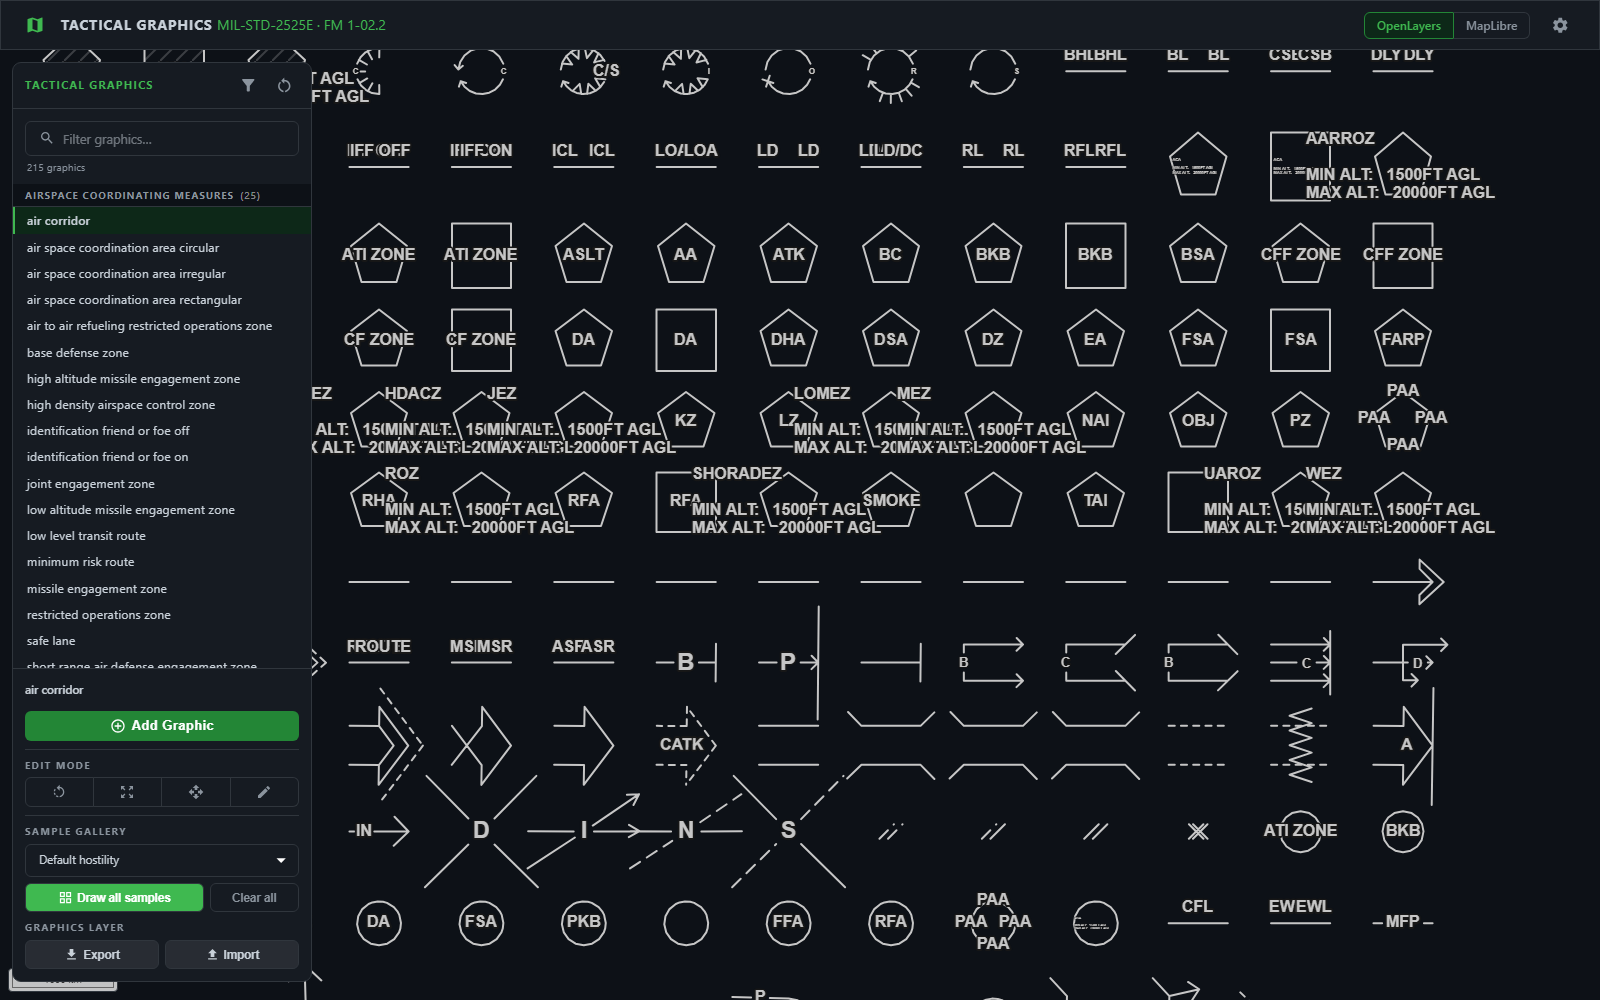
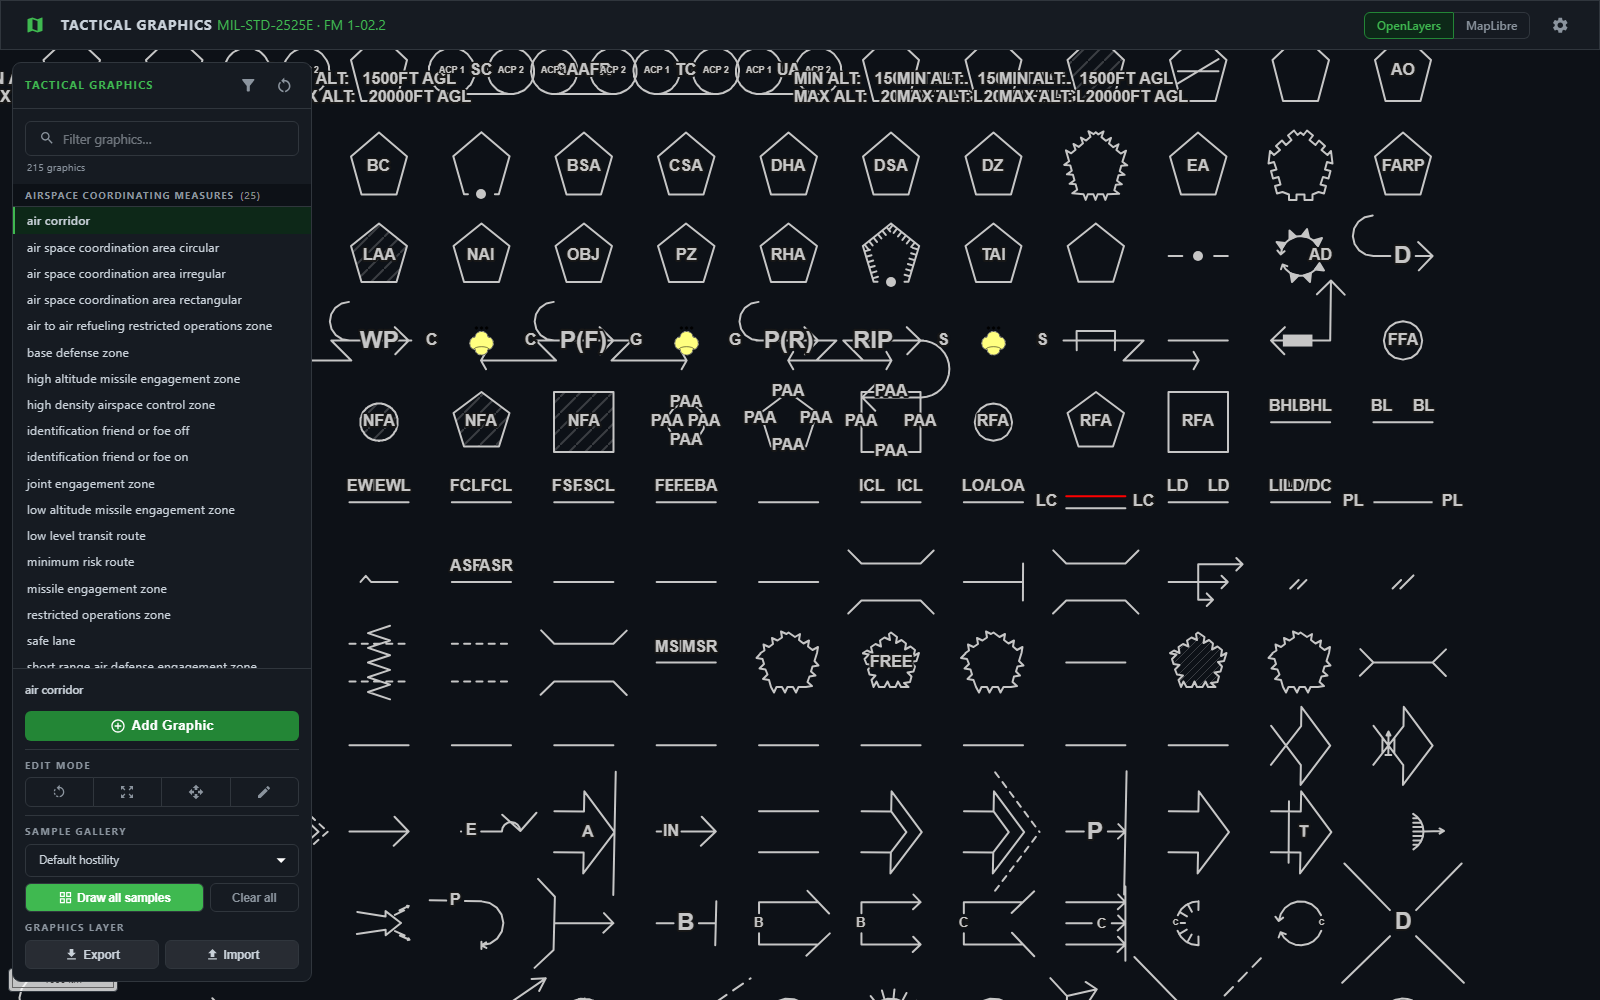
Show each range fan with one band and with three, and fit the labels
The two sweep builders were two orders. `buildSampleGraphics` sorted by
category, `sampleFeatureCollection` took registry order, so the circular fan
sat at [26,-47] in one engine and [-10,-54] in the other and every
side-by-side comparison was comparing two different pictures. A pixel diff
cannot report that — it sees two full, plausible catalogues. Both now come
out of one `sampleSpecs()` + `cellOrigin()`, and a test asserts they agree
graphic-for-graphic rather than leaving it to construction.

On top of the catalogue proper, each range fan gets a second cell with three
bands. One band draws a ring; three nest, and the labels have to share the
gaps between them — a catalogue showing only the first shows the shape and
hides the graphic. The sector's three carry their own bearings, which is the
thing a sector can do that a circle cannot.

Three bands were unreadable as they stood: each label is a three-line stack
anchored on its own ring, and the stack scales with the graphic while the
ring spacing does not, so at a working zoom they overprinted into
`MGATGMARTY` over `MIN RG...`. A band's label is now capped to 85% of the
distance to the next band's anchor. **A lone band takes no cap** — its
neighbour falls back to the fan's own centre, which is not something the
label can collide with, and capping against it shrank the one-band sample to
a speck.

1783 tests green; gallery re-shot.

diff --git a/src/components/maplibre/sampleGallery.ts b/src/components/maplibre/sampleGallery.ts
@@ -10,6 +10,7 @@ import {
     supportsHostility,
     AltitudeDatum,
     isRectangular,
+    type TacticalGraphicProperties,
 } from '@zaes/tactical-graphics';
 import {buildTacticalGraphic, type MapLibreTacticalGraphic} from './maplibreAdapter';
 
@@ -116,11 +117,11 @@ const SAMPLE_AMPLIFIERS = {
     maxAltitude: 20000,
     altitudeDatum: AltitudeDatum.aboveGroundLevel,
     rangeFan: {
-        // **One band, not three.** Each band draws a three-line stack — its name, its
-        // range, its altitude — anchored on its own ring, and in a cell this size three
-        // rings put those stacks within a few pixels of each other: rendered with
-        // 60/120/180 km the two fan samples were an unreadable pile. One ring shows the
-        // same three lines and stays legible, which is what a catalogue owes a reader.
+        // **One band**, and no bearings on it — the sector fan then falls back to its
+        // own span, which is the plain case worth showing first. The multi-band variants
+        // are separate samples rather than a replacement for this one, so the catalogue
+        // shows both what a fan looks like with a single ring and what stacking does to
+        // it. @see EXTRA_SAMPLES
         //
         // Kilometres, unlike every other distance here. @see RangeFanBand.range
         bands: [{range: 180, label: 'ARTY', altitude: 1500}],
@@ -175,6 +176,114 @@ function hostilityFor(
  * the right size on the first zoom, when `rebuildScreenSized` re-derived it from the
  * live map. @see securityOperationSize
  */
+/**
+ * One sample: which graphic, where in the grid, and the properties it is drawn with.
+ *
+ * **Both sweeps walk this same list**, which they did not used to. `buildSampleGraphics`
+ * sorted by category while `sampleFeatureCollection` took the registry's own order, so
+ * the engine that builds its own graphics and the engine that restores the collection
+ * laid the catalogue out differently — the same fan sat at [26, -47] in one and
+ * [-10, -54] in the other. Comparing the two by looking at them was comparing two
+ * different pictures.
+ */
+interface SampleSpec {
+    name: TacticalGraphicName;
+    index: number;
+    properties: Omit<TacticalGraphicProperties, 'name'>;
+}
+
+/**
+ * A second sample for the graphics whose interesting variation is in their *properties*
+ * rather than their shape.
+ *
+ * The range fans carry a list of bands, and one band draws nothing like four — the rings
+ * nest, the labels stack, and the sector's bearings spread across the arc. A catalogue
+ * showing only the single-band case shows the shape and hides the graphic.
+ */
+const EXTRA_SAMPLES: {name: TacticalGraphicName; properties: Omit<TacticalGraphicProperties, 'name'>}[] = [
+    {
+        name: TacticalGraphicName.WeaponSensorRangeFanCircular,
+        properties: {
+            rangeFan: {
+                bands: [
+                    {range: 60, label: 'MG'},
+                    {range: 120, label: 'ATGM'},
+                    {range: 180, label: 'ARTY'},
+                ],
+            },
+        },
+    },
+    {
+        name: TacticalGraphicName.WeaponSensorRangeFanSector,
+        properties: {
+            // Three, for the same reason — and each with its own pair of bearings, which
+            // is the thing a sector fan can do that a circular one cannot.
+            rangeFan: {
+                bands: [
+                    {range: 60, label: 'MG', leftAzimuthDeg: 20, rightAzimuthDeg: 70},
+                    {range: 120, label: 'ATGM', leftAzimuthDeg: 35, rightAzimuthDeg: 85},
+                    {range: 180, label: 'ARTY', leftAzimuthDeg: 45, rightAzimuthDeg: 100},
+                ],
+            },
+        },
+    },
+];
+
+/**
+ * Every sample, in one order, ready for either engine to realise.
+ *
+ * Sorted by category so related symbols sit together, which is what makes the sweep
+ * readable as a catalogue rather than a heap.
+ */
+function sampleSpecs(hostility?: TacticalGraphicHostility): SampleSpec[] {
+    const byCategory = [...PAINTABLE_GRAPHICS].sort((a, b) => {
+        const ca = GRAPHIC_CATEGORIES[a] ?? TacticalGraphicCategory.Areas;
+        const cb = GRAPHIC_CATEGORIES[b] ?? TacticalGraphicCategory.Areas;
+        return ca === cb ? getDisplayName(a).localeCompare(getDisplayName(b)) : String(ca).localeCompare(String(cb));
+    });
+
+    const specs: SampleSpec[] = byCategory.map((name, index) => ({
+        name,
+        index,
+        properties: {
+            ...SAMPLE_AMPLIFIERS,
+            radius: SAMPLE_RADIUS_M,
+            // **`rotation` is not optional in practice.** The point-anchored generators
+            // feed it straight into `Math.cos`/`Math.sin`, so leaving it undefined
+            // produces NaN coordinates and turf then refuses the feature — which surfaces
+            // as the graphic simply not drawing. All nine arc and circular-area samples
+            // were missing until this was passed.
+            rotation: 0,
+            ...hostilityFor(name, hostility),
+        },
+    }));
+
+    // Appended, so they take the cells after the catalogue proper and nothing shifts.
+    EXTRA_SAMPLES.forEach((extra, offset) => {
+        specs.push({
+            name: extra.name,
+            index: byCategory.length + offset,
+            properties: {
+                ...SAMPLE_AMPLIFIERS,
+                radius: SAMPLE_RADIUS_M,
+                rotation: 0,
+                ...hostilityFor(extra.name, hostility),
+                ...extra.properties,
+            },
+        });
+    });
+
+    return specs;
+}
+
+/** Where a sample's cell sits, from its place in the list. */
+function cellOrigin(index: number): {lon: number; lat: number} {
+    return {
+        lon: ORIGIN[0] + (index % COLUMNS) * COLUMN_STEP,
+        lat: ORIGIN[1] - Math.floor(index / COLUMNS) * ROW_STEP,
+    };
+}
+
 export function buildSampleGraphics(
     hostility?: TacticalGraphicHostility,
     drawingResolution?: number,
@@ -182,31 +291,13 @@ export function buildSampleGraphics(
     graphics: MapLibreTacticalGraphic[];
     report: MapLibreSampleReport;
 } {
-    const byCategory = [...PAINTABLE_GRAPHICS].sort((a, b) => {
-        const ca = GRAPHIC_CATEGORIES[a] ?? TacticalGraphicCategory.Areas;
-        const cb = GRAPHIC_CATEGORIES[b] ?? TacticalGraphicCategory.Areas;
-        return ca === cb ? getDisplayName(a).localeCompare(getDisplayName(b)) : String(ca).localeCompare(String(cb));
-    });
-
     const graphics: MapLibreTacticalGraphic[] = [];
     const failed: string[] = [];
 
-    byCategory.forEach((name, i) => {
-        const lon = ORIGIN[0] + (i % COLUMNS) * COLUMN_STEP;
-        const lat = ORIGIN[1] - Math.floor(i / COLUMNS) * ROW_STEP;
-
+    sampleSpecs(hostility).forEach(({name, index, properties}) => {
+        const {lon, lat} = cellOrigin(index);
         const built = candidateGeometries(name, lon, lat)
-            .map(geometry => buildTacticalGraphic(name, geometry, {
-                ...SAMPLE_AMPLIFIERS,
-                radius: SAMPLE_RADIUS_M,
-                // **`rotation` is not optional in practice.** The point-anchored
-                // generators feed it straight into `Math.cos`/`Math.sin`, so leaving it
-                // undefined produces NaN coordinates and turf then refuses the feature —
-                // which surfaces as the graphic simply not drawing. All nine arc and
-                // circular-area samples were missing until this was passed.
-                rotation: 0,
-                ...hostilityFor(name, hostility),
-            }, drawingResolution))
+            .map(geometry => buildTacticalGraphic(name, geometry, properties, drawingResolution))
             .find(Boolean);
 
         if (built) graphics.push(built);
@@ -226,10 +317,8 @@ export function buildSampleGraphics(
 export function sampleFeatureCollection(hostility?: TacticalGraphicHostility): FeatureCollection {
     const features: Feature[] = [];
 
-    [...PAINTABLE_GRAPHICS].forEach((name, i) => {
-        const lon = ORIGIN[0] + (i % COLUMNS) * COLUMN_STEP;
-        const lat = ORIGIN[1] - Math.floor(i / COLUMNS) * ROW_STEP;
-
+    sampleSpecs(hostility).forEach(({name, index, properties}) => {
+        const {lon, lat} = cellOrigin(index);
         const geometry = candidateGeometries(name, lon, lat).find(g =>
             buildTacticalGraphic(name, g, {radius: SAMPLE_RADIUS_M, rotation: 0}),
         );
@@ -240,21 +329,17 @@ export function sampleFeatureCollection(hostility?: TacticalGraphicHostility): F
             geometry,
             properties: {
                 role: 'base',
-                symbolId: `sample-${name}`,
+                // Unique per cell, not per graphic: the fans appear twice.
+                symbolId: `sample-${name}-${index}`,
                 graphicName: name,
-                [TACTICAL_GRAPHIC_KEY]: {
-                    name,
-                    radius: SAMPLE_RADIUS_M,
-                    rotation: 0,
-                    ...SAMPLE_AMPLIFIERS,
-                    ...hostilityFor(name, hostility),
-                },
+                [TACTICAL_GRAPHIC_KEY]: {name, ...properties},
             },
         });
     });
 
     return {type: 'FeatureCollection', features};
 }
+
 
 /** Every graphic the registry cannot paint yet — the remaining port, as a list. */
 export function unpaintableGraphics(): TacticalGraphicName[] {

diff --git a/src/tacticalgraphics/symbology/boundaryPaints.ts b/src/tacticalgraphics/symbology/boundaryPaints.ts
@@ -11,7 +11,7 @@ import type {Paint, PaintContext, PaintFeature, ProjectedPosition} from '../core
 import {BASE_FONT_SIZE_PX} from '../core/config';
 import {HALO_WIDTH, LINE_WIDTH, fontStyle, formatAltitude, getColorByHostility, getLabelFillColor, getLabelHaloColor} from '../core/symbology';
 import {TacticalGraphicEchelon, TacticalGraphicHostility, TacticalGraphicName} from '../core/type';
-import {projectedMidSegment} from './decorations';
+import {projectedMidSegment, textWidth} from './decorations';
 import {echelonMarks} from './echelonPaints';
 import {amplifierDash, formatFullLabel, lineColorOf, scaleOf} from './paintFunctions';
 
@@ -177,6 +177,14 @@ function formatKm(km: number): string {
  */
 const AZIMUTH_LABEL_GAP_PX = 16;
 
+/**
+ * Share of the gap between two bands their labels may fill.
+ *
+ * Short of the whole gap, so consecutive blocks have air between them rather than
+ * meeting exactly.
+ */
+const BAND_LABEL_FIT_SHARE = 0.85;
+
 /** Rendered height of one label row at scale 1 — the base font with normal leading. */
 const LABEL_LINE_PX = BASE_FONT_SIZE_PX * 1.2;
 
@@ -232,7 +240,12 @@ export function rangeFanLabelPaint(name: TacticalGraphicName): LinePaint {
         const scale = scaleOf(feature, context);
         const paints: Paint[] = [];
 
-        const text = (at: ProjectedPosition, value: string, offsets: {offsetXPx?: number; offsetYPx?: number} = {}): Paint => ({
+        const text = (
+            at: ProjectedPosition,
+            value: string,
+            offsets: {offsetXPx?: number; offsetYPx?: number} = {},
+            textScale: number = scale,
+        ): Paint => ({
             geometry: {type: 'Point', coordinates: at},
             text: {
                 ...offsets,
@@ -242,9 +255,30 @@ export function rangeFanLabelPaint(name: TacticalGraphicName): LinePaint {
                 halo: {color: getLabelHaloColor(), widthPx: HALO_WIDTH},
                 align: 'center',
                 baseline: 'middle',
-                scale,
+                scale: textScale,
             },
         });
+
+        /**
+         * The largest scale a band's block may take before it runs into its neighbours'.
+         *
+         * Each band anchors its block at its own mid-radius, so consecutive blocks sit one
+         * band's width apart — a fixed distance on the ground, and so a fixed number of
+         * pixels at any zoom. The block's *scale*, though, grows with the graphic. On a fan
+         * of any real size the text therefore outgrew the gap it sits in, and three bands
+         * rendered as `MGATGMARTY` over `MINRINRINZOG 300` — at every zoom, which is what
+         * marks this as a cap rather than a spacing tweak.
+         *
+         * The same reasoning as `acpLabelScale`: a label that has to fit inside something
+         * is measured against that thing.
+         */
+        const bandScale = (block: string, from: ProjectedPosition, to: ProjectedPosition | undefined): number => {
+            if (!to) return scale;
+            const spacingPx = Math.hypot(to[0] - from[0], to[1] - from[1]) / context.resolution;
+            const widest = Math.max(...block.split('\n').map(row => textWidth(context, row, fontStyle, 1)));
+            if (!(widest > 0)) return scale;
+            return Math.min(scale, (spacingPx * BAND_LABEL_FIT_SHARE) / widest);
+        };
 
         for (let i = 0; i < bands.length; i++) {
             const midIndex = 1 + i * stride;
@@ -272,7 +306,17 @@ export function rangeFanLabelPaint(name: TacticalGraphicName): LinePaint {
             // It also puts the block above the arc, which is where table 5-276 prints it.
             // Scaled with the text, so the clearance holds as the label grows.
             if (lines.length) {
-                paints.push(text(coords[midIndex], lines.join('\n'), isSector ? {offsetYPx: -rangeBlockLiftPx(lines.length) * scale} : {}));
+                const block = lines.join('\n');
+                // Measured against the next band's anchor, or the previous one for the
+                // outermost. **A lone band has no neighbour and takes no cap** — its
+                // fallback would be the fan's own centre, which is not something the
+                // label can collide with, and capping against it shrank the one-band
+                // sample to an unreadable speck. @see bandScale
+                const neighbour = bands.length > 1 ? (coords[midIndex + stride] ?? coords[midIndex - stride]) : undefined;
+                const fitted = bandScale(block, coords[midIndex], neighbour);
+                paints.push(
+                    text(coords[midIndex], block, isSector ? {offsetYPx: -rangeBlockLiftPx(lines.length) * fitted} : {}, fitted),
+                );
             }
 
             if (!isSector) continue;

diff --git a/src/components/openlayers/sampleGallery.test.ts b/src/components/openlayers/sampleGallery.test.ts
@@ -15,6 +15,7 @@ import {
     TacticalGraphicHostility,
     TacticalGraphicName,
 } from '@zaes/tactical-graphics';
+import type {TacticalGraphicProperties} from '@zaes/tactical-graphics';
 
 import {getController} from './controllerRegistry';
 import {LineGraphicController} from './controllers/LineGraphicController';
@@ -23,7 +24,7 @@ import type {GraphicLabels} from '../../utils/graphicLinkRegistry';
 import {supportsHostility} from './graphicFieldRegistry';
 import {readGraphicLabels, writeGraphicProperties} from './graphicProperties';
 import {HALF, LINE_HALF, LINE_SCALE, applyBaseGeometry, applyHostility, groupByCategory, measureSample} from './sampleGallery';
-import {sampleFeatureCollection} from '../maplibre/sampleGallery';
+import {buildSampleGraphics, sampleFeatureCollection} from '../maplibre/sampleGallery';
 import {isRectangular} from '@zaes/tactical-graphics';
 
 /**
@@ -289,5 +290,66 @@ describe('the sample sweep tells rectangles from areas', () => {
         const areas = rings().filter(r => !isRectangular(r.name));
         expect(areas.length).toBeGreaterThan(0);
         expect(areas.every(r => r.corners === 5)).toBe(true);
+    });
+});
+
+/**
+ * # The two engines draw the same catalogue
+ *
+ * `buildSampleGraphics` (MapLibre realises these directly) and `sampleFeatureCollection`
+ * (the OpenLayers sweep restores this) are two exits from one list. They were not always:
+ * one sorted by category and the other took registry order, so the circular range fan sat
+ * in a different cell in each engine and every side-by-side comparison was comparing two
+ * different pictures. A pixel diff cannot report that — it sees two full, plausible
+ * catalogues — so the ordering is asserted here instead.
+ */
+describe('both engines lay the sweep out identically', () => {
+    it('emits the same graphics in the same order', () => {
+        const built = buildSampleGraphics().graphics.map(g => g.name);
+        const collected = sampleFeatureCollection().features.map(
+            f => (f.properties as {tacticalGraphic: {name: TacticalGraphicName}}).tacticalGraphic.name,
+        );
+        expect(collected).toEqual(built);
+    });
+
+    it('gives each cell its own identity, so a graphic may appear twice', () => {
+        const ids = sampleFeatureCollection().features.map(f => (f.properties as {symbolId: string}).symbolId);
+        expect(new Set(ids).size).toBe(ids.length);
+    });
+});
+
+/**
+ * The range fans are the one family whose interesting variation is in the properties
+ * rather than the geometry: a lone band draws a ring, three draw nested rings with the
+ * labels sharing the gaps between them. A catalogue with only the first shows the shape
+ * and hides the graphic, so each fan appears twice.
+ */
+describe('the range fans appear once with one band and once with several', () => {
+    const bandCounts = (name: TacticalGraphicName): number[] =>
+        sampleFeatureCollection()
+            .features.map(f => (f.properties as {tacticalGraphic: TacticalGraphicProperties}).tacticalGraphic)
+            .filter(g => g.name === name)
+            .map(g => g.rangeFan?.bands?.length ?? 0);
+
+    it.each([TacticalGraphicName.WeaponSensorRangeFanCircular, TacticalGraphicName.WeaponSensorRangeFanSector])(
+        '%s',
+        name => {
+            const counts = bandCounts(name);
+            expect(counts.length).toBe(2);
+            expect(counts).toContain(1);
+            expect(counts.some(n => n > 1)).toBe(true);
+        },
+    );
+
+    it('gives the multi-band sector its own bearings per band, which the circle cannot do', () => {
+        // Only the multi-band one. The single-band sample omits them on purpose, so the
+        // catalogue also shows a sector falling back to its own span.
+        const bands = sampleFeatureCollection()
+            .features.map(f => (f.properties as {tacticalGraphic: TacticalGraphicProperties}).tacticalGraphic)
+            .filter(g => g.name === TacticalGraphicName.WeaponSensorRangeFanSector)
+            .map(g => g.rangeFan?.bands ?? [])
+            .find(b => b.length > 1);
+        expect(bands?.length).toBeGreaterThan(1);
+        expect(bands?.every(b => b.leftAzimuthDeg !== undefined && b.rightAzimuthDeg !== undefined)).toBe(true);
     });
 });
